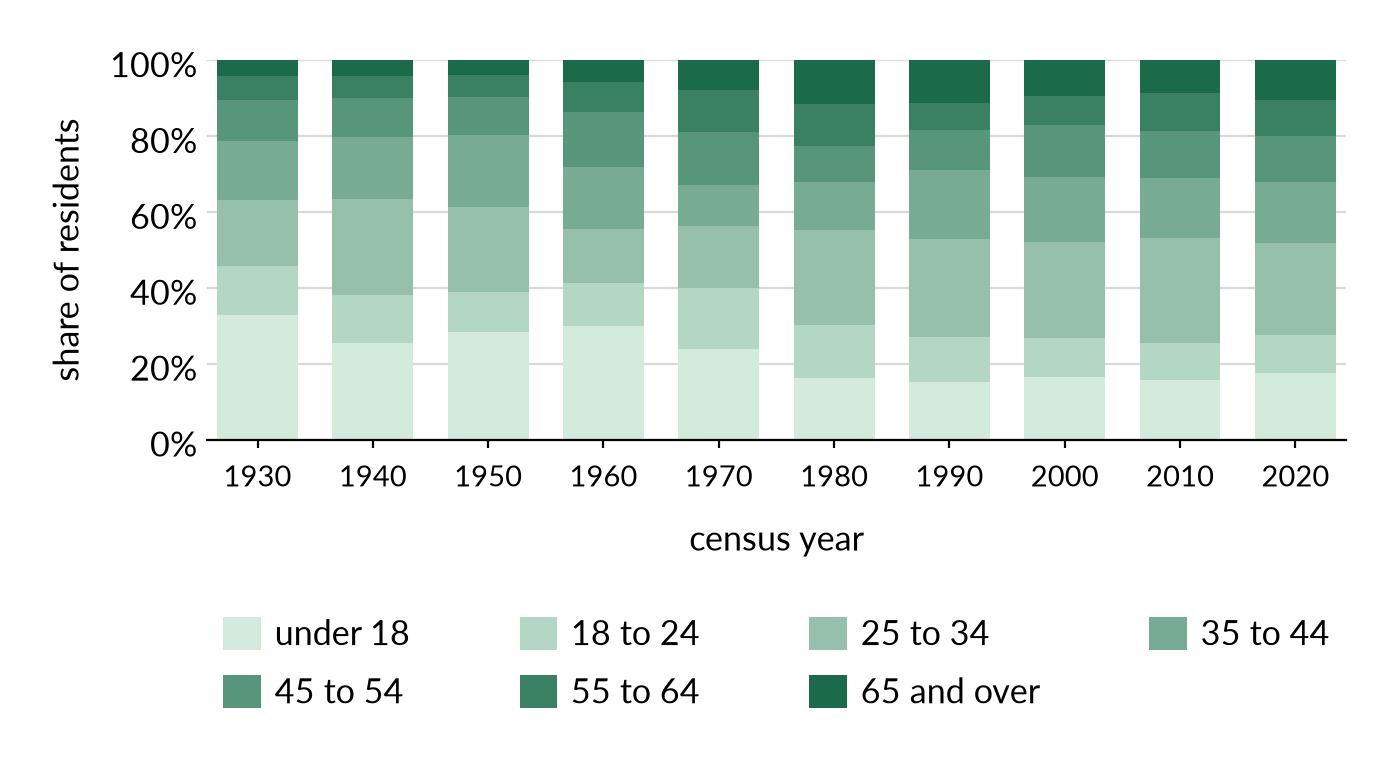
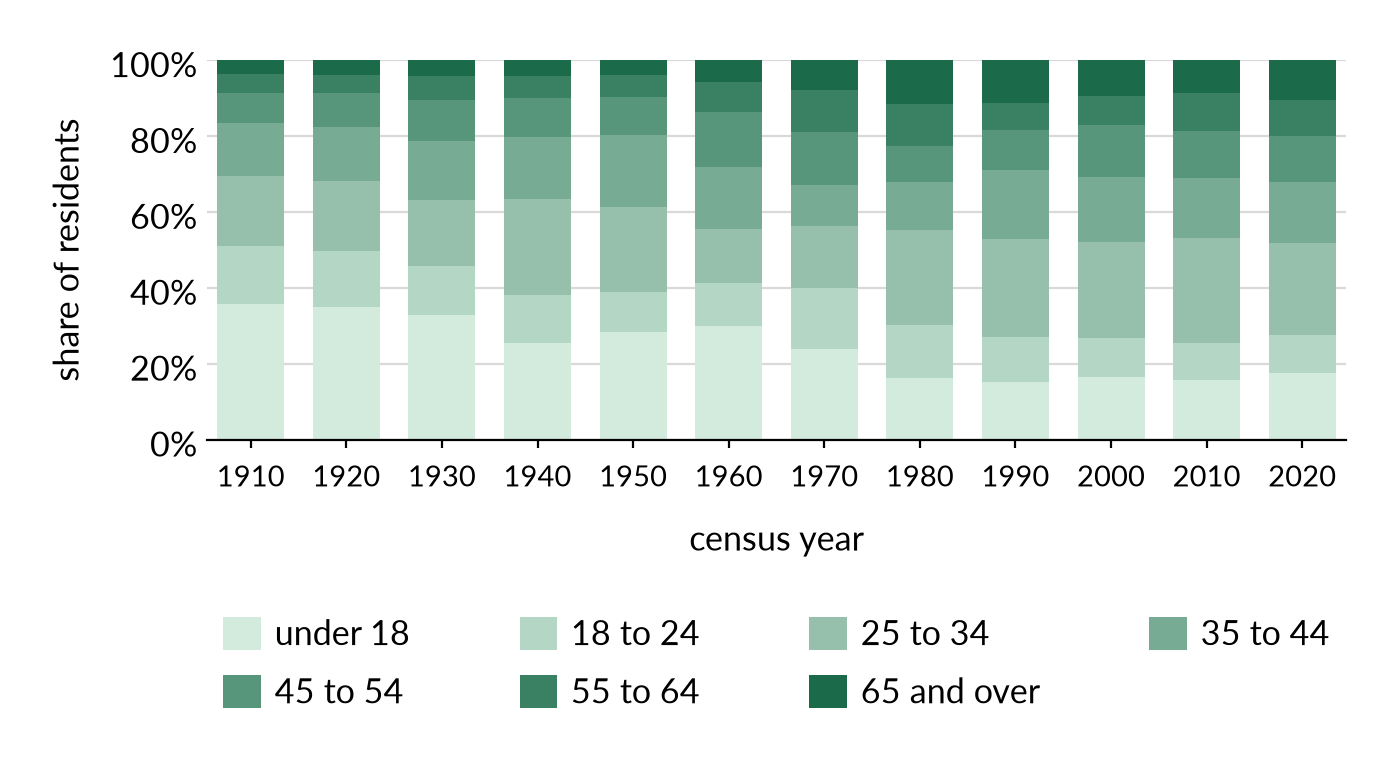
residents_by_age: from 1910, 1910 and 1920 counted from the full-count schedules; age-back-to-1880 settled into docs

Changed region(s): [[0.1536, 0.0605, 0.9214, 0.575], [0.1536, 0.6053, 0.9521, 0.6658]]

diff --git a/code/clean/residents.py b/code/clean/residents.py
@@ -1,7 +1,7 @@
 """Census population by year -> data/clean/residents.csv
 
 One row per census, 1870-2020: the total, four race categories, the county
-in seven age bands from 1930, the seats the Board had, and residents per
+in seven age bands from 1910, the seats the Board had, and residents per
 seat. `total_source`, `race_source` and `age_source` name the document each
 came from.
 
@@ -18,17 +18,22 @@ came from.
                keyed in by hand; 1930 prints 14 people of unknown age, who
                are `ageunknown`
     1980-      seven age bands, from each census's own age table
+    1910, 1920 seven age bands, counted from the full-count schedules in
+               the county less Alexandria city
 
 The fifth crossed group, non-Hispanic other and multiracial, is not a
 column: a figure takes it as total minus the four. `hisp` is blank before 1980
-and the age bands before 1930. The seven bands and `ageunknown` sum to `total`, and the adult
-population is the six of them above `ageunder18`; neither has a column of
-its own. docs/residents.md says what backs each year and why.
+and the age bands in the censuses above that are not listed. The seven bands
+and `ageunknown` sum to `total` from 1930; in 1910 and 1920 they sum to
+the people the schedules hold, a few short of `total` in each, within
+AGE_TOO_FAR. The adult population is the six bands above `ageunder18`; neither
+has a column of its own. docs/residents.md says what backs each year and why.
 """
 import pandas as pd
 
 import census
 import citekeys
+import residents_by_district
 from members_terms import seats
 from paths import write
 
@@ -42,6 +47,16 @@ ADULT_BANDS = AGE_BANDS[1:]
 COLUMNS = ["year", "total", "white", "black", "hisp", "aapi", *AGE_BANDS, "ageunknown",
            "board_seats", "residents_per_seat"]
 CENSUSES = range(1870, 2021, 10)
+# The censuses whose age bands are counted from the full-count schedules. 1890's
+# burned and 1900's database lacks 499 people whose ages cannot be recovered;
+# 1870 and 1880 could be counted, but nothing reads them before 1910.
+SCHEDULE_AGES = (1910, 1920)
+# The edges of the seven bands in years, the lowest first: under 18, 18 to 24,
+# and so on to 65 and over. Every one is a boundary of the age tables above.
+AGE_EDGES = [18, 25, 35, 45, 55, 65]
+# How far the schedules' county may be from the volume's total, as a share of
+# it. 1910's database is the shortest, 154 of 10,231.
+AGE_TOO_FAR = {1910: 0.02, 1920: 0.01}
 # Which document each year's total comes from.
 TOTAL_SOURCE = {1870: citekeys.CENSUS_1870, 1880: citekeys.CENSUS_1880, 1890: citekeys.CENSUS_1890,
                 **{y: citekeys.CENSUS_COUNTY_SERIES for y in range(1900, 2000, 10)},
@@ -352,6 +367,29 @@ def volume_ages(year):
     return out, unknown, printed, "; ".join(t.loc[read, "cite"].unique())
 
 
+def schedule_ages(year, total):
+    """The seven bands counted from the year's full-count schedules, in the
+    county less Alexandria city, and everyone counted. The schedules are
+    placed by residents_by_district.placed(), so the people are the ones the
+    district figures count, and the count must lie within AGE_TOO_FAR of the
+    volume's total."""
+    d, _ = residents_by_district.placed(year)
+    age = pd.to_numeric(d.age, errors="raise")
+    if age.isna().any() or (age < 0).any():
+        raise AssertionError(f"{year}: the schedules hold an age that is not a number of years")
+    band = pd.cut(age, [-1, *[e - 1 for e in AGE_EDGES], 200], labels=AGE_BANDS)
+    out = {b: int(n) for b, n in d.people.groupby(band, observed=False).sum().items()}
+    counted = sum(out.values())
+    if counted != int(d.people.sum()):
+        raise AssertionError(f"{year}: the bands count {counted:,} of {int(d.people.sum()):,} people")
+    if abs(counted - total) / total > AGE_TOO_FAR[year]:
+        raise AssertionError(
+            f"{year}: the schedules hold {counted:,} people against a county of "
+            f"{total:,}, more than {AGE_TOO_FAR[year]:.0%} apart; the age bands would "
+            f"describe a different population from the total")
+    return out, counted
+
+
 def stf1a(year, table):
     """Arlington's row of one archived Summary Tape File extract."""
     return census.row(f"raw/us_census_bureau/{year}/stf1a_{table}_virginia_counties.csv")
@@ -504,8 +542,9 @@ def build() -> pd.DataFrame:
         "no race source for "
         f"{[int(y) for y in d.loc[d.race_source == '', 'year']]}")
 
-    # The county in seven age bands, from 1930. Each census's age table must
-    # account for the same county the total column does.
+    # The county in seven age bands, from 1930 and in the three censuses the
+    # schedules count. Each volume's or file's age table must account for the
+    # same county the total column does.
     d["age_source"] = ""
     ages, age_source, unknown = {}, {}, {}
     for year in VOLUME_AGE_TABLES:
@@ -524,6 +563,9 @@ def build() -> pd.DataFrame:
                 f"total is {total:,}; a group is missing or counted twice")
     for year in (2000, 2010, 2020):
         ages[year] = api_ages(year)
+    for year in SCHEDULE_AGES:
+        ages[year], _ = schedule_ages(year, int(d.loc[d["year"] == year, "total"].iloc[0]))
+        age_source[year] = citekeys.race_source(year)
     for year, bands in ages.items():
         m = d["year"] == year
         for col, value in bands.items():

diff --git a/code/build/ipums.py b/code/build/ipums.py
@@ -1,6 +1,6 @@
-"""The 1920 full count, by enumeration district and race -> data/built/ipums.csv
+"""The full counts, by enumeration district, race and age -> data/built/ipums.csv
 
-One row per enumeration district per race code, with how many people the
+One row per enumeration district per race code per age, with how many people the
 extract holds there, and beside it the district's transcribed description
 and the magisterial district that description names. From
 data/raw/ipums/<year>/*.csv.gz, the extract code/fetch/ipums.py asked for,
@@ -13,7 +13,8 @@ descriptions keyed in from NARA T1224.
                  it names none
     description  the description as transcribed
     race         the IPUMS race code, as delivered
-    people       how many people the extract holds in that district at that code
+    age          the IPUMS age in years, as delivered
+    people       how many people the extract holds in that district at that race and age
 
 Counting people is not a decision, and neither is putting a description
 beside the district it describes. What blank means - Fort Myer's district
@@ -38,11 +39,11 @@ ED_IN = 100_000
 
 
 def people(path) -> pd.DataFrame:
-    """One extract as counts by enumeration district and race code."""
+    """One extract as counts by enumeration district, race code and age."""
     d = source(path, dtype=str, keep_default_na=False)
     d = d.assign(ed=(d.ENUMDIST.astype(int) % ED_IN).astype(str))
-    return (d.groupby(["YEAR", "ed", "RACE"]).size().rename("people").reset_index()
-            .rename(columns={"YEAR": "year", "RACE": "race"}))
+    return (d.groupby(["YEAR", "ed", "RACE", "AGE"]).size().rename("people").reset_index()
+            .rename(columns={"YEAR": "year", "RACE": "race", "AGE": "age"}))
 
 
 def descriptions(path) -> pd.DataFrame:
@@ -55,8 +56,8 @@ def build() -> pd.DataFrame:
     counts = pd.concat([people(p) for p in EXTRACTS], ignore_index=True)
     described = pd.concat([descriptions(p) for p in DESCRIPTIONS], ignore_index=True)
     d = counts.merge(described, on=["year", "ed"], how="outer", validate="many_to_one")
-    return d[["year", "ed", "district", "description", "race", "people"]].sort_values(
-        ["year", "ed", "race"], ignore_index=True)
+    return d[["year", "ed", "district", "description", "race", "age", "people"]].sort_values(
+        ["year", "ed", "race", "age"], ignore_index=True)
 
 
 if __name__ == "__main__":

diff --git a/code/analysis/residents_by_age.py b/code/analysis/residents_by_age.py
@@ -1,4 +1,4 @@
-"""Residents by age band, 1930-2020 -> figures/residents_by_age.pdf, .png
+"""Residents by age band, 1910-2020 -> figures/residents_by_age.pdf, .png
 
 One panel: every resident, as stacked bars in style.RESIDENT_AGES with the
 youngest band at the base. Shares rather than counts, and children included
@@ -9,7 +9,7 @@ import charts
 import paths
 import style
 
-FIRST = 1930         # from 1930, the earliest county age table we hold
+FIRST = 1910         # the earliest census with a county age distribution after 1900
 BARS = 7             # years per bar, as on the other census figures
 
 for profile in style.PROFILES:
@@ -18,7 +18,8 @@ for profile in style.PROFILES:
     bands = list(style.RESIDENT_AGES)
     c = paths.read("residents")
     c = c[c["year"] >= FIRST].reset_index(drop=True)
-    shares = c[bands].astype(float).div(c["total"], axis=0) * 100
+    everyone = c[[*bands, "ageunknown"]].astype(float).sum(axis=1)
+    shares = c[bands].astype(float).div(everyone, axis=0) * 100
 
     fig, ax = charts.figure(profile, of_width=style.NARROW)
     stacked = charts.series(shares, style.RESIDENT_AGES)

diff --git a/paper/arlington-bsap.tex b/paper/arlington-bsap.tex
@@ -496,8 +496,9 @@ demographics, but any of them supports the clustering question.
   \centering
   \includegraphics[width=\textwidth]{residents_by_age.pdf}
   \caption{Arlington residents by age band as a share of the county, at each
-  census from 1930 to 2020, shaded light to dark from youngest to oldest. From
-  1930, the earliest county age table we hold. US decennial census, 1930--2020.}
+  census from 1910 to 2020, shaded light to dark from youngest to oldest. 1910
+  and 1920 are counted from the full-count schedules; from 1930, the published
+  county age tables. US decennial census, 1910--2020.}
   \label{fig:residents-age}
 \end{figure}
 

diff --git a/docs/figures.md b/docs/figures.md
@@ -391,16 +391,21 @@ there the labels can be shortened and here the years cannot.
   picture of the electorate when what the section is about is the county.
   For the same reason the denominator is every resident, not every adult.
 
-  It begins at 1930 while the Board figures begin at 1870, and the two are
-  not drawn on a shared range. Nothing is lost by that. The Board series
-  reaches back to 1870 because a Board member is one person whose birth
-  year can be found in a census sheet or an obituary; a county age
-  distribution has to come from a published table, and 1930 is the
-  earliest census volume keyed in. Ten bars at `style.NARROW` leave room to
-  name every census, so this axis is `dense` rather than every twentieth
-  year. The note says "From 1930, the earliest county age table we hold": the
-  start is the earliest table keyed in, not a limit of the data, and
-  `age-back-to-1880` is the row to extend it. The 14 people of unknown age in 1930 are
+  It begins at 1910 while the Board figures begin at 1870, and the two are
+  not drawn on a shared range. A county age distribution needs either a
+  published county table or the schedules counted, and neither reaches
+  further back without a hole: 1890's schedules burned and its published
+  county table counts school, militia and voting ages only (Table 79), 1900's
+  is the same (Table 11 of the Virginia school, militia and voting ages
+  bulletin) and its database lacks 499 people whose ages cannot be recovered.
+  1870 and 1880 could be counted from the schedules, but a bar at each of
+  them with 1890 and 1900 empty between would be two islands, so the figure
+  begins at the first census after the hole. 1910 and 1920 are counted from
+  the schedules and 1930 on is read from the volumes and files, so the
+  note says "1910 and 1920 are counted from the full-count schedules; from
+  1930, the published county age tables". Eleven bars at `style.NARROW` leave
+  room to name every census, so this axis is `dense` rather than every
+  twentieth year. The 14 people of unknown age in 1930 are
   in no band, so that bar stops 0.05 per cent short of the top, which no
   one can see and nothing marks. The figure is a benchmark for the
   residents section and is never put on a panel with the Board's ages:

diff --git a/docs/residents.md b/docs/residents.md
@@ -445,16 +445,31 @@ How much of this the prose says is an open question.
 
 ---
 
-## Age, 1930 onward
+## Age, 1910 onward
 
-`residents.csv` carries the county in seven age bands from 1930: `ageunder18`,
+`residents.csv` carries the county in seven age bands from 1910: `ageunder18`,
 `age18to24`, `age25to34`, `age35to44`, `age45to54`, `age55to64` and
-`age65plus`. With `ageunknown` they sum to `total` at every census, and
+`age65plus`. With `ageunknown` they sum to `total` at every census from 1930, and
 `residents_by_age` draws them as shares of it. `ageunknown` is the 14 people
 whose age the 1930 census did not record; from 1940 the Bureau's tables print
 no such line, and the column is 0. There is no `adults` column: the adult
 population is the six bands above `ageunder18`, summed where something needs
 it.
+
+**1910 and 1920 are counted from the schedules**, in the county less Alexandria
+city, from the full-count extracts' single years of age
+(`code/clean/residents.py`, `schedule_ages`), placed by the same enumeration
+district mapping the district figures use. The schedules and the volume are
+two counts of the same population, so the bands sum to the people the
+schedules hold, not to `total`: 154 short in 1910 and three over in 1920, and
+the build refuses a gap wider than `AGE_TOO_FAR`. The figure divides each
+census by the people its own count holds. No other census before 1930 has an
+age distribution to take. 1890 and 1900 print county ages only as school
+(5 to 17 or 20), militia (males 18 to 44) and voting (males 21 and over)
+ages, which no band here is built from without interpolating; 1890's
+schedules burned and 1900's database lacks 499 people, all in Arlington
+district, whose ages nothing recovers. 1870 and 1880 could be counted from
+the schedules, but nothing reads them.
 
 **The cuts are the ones every census from 1930 shares.** 1930 prints 35 to
 44, 45 to 54, 55 to 64 and 65 to 74 as single groups, and 1980 does the same
